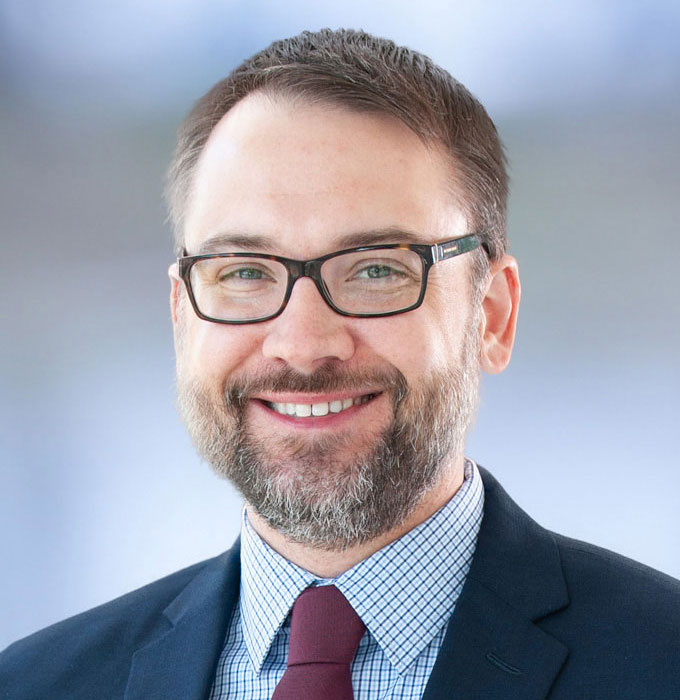
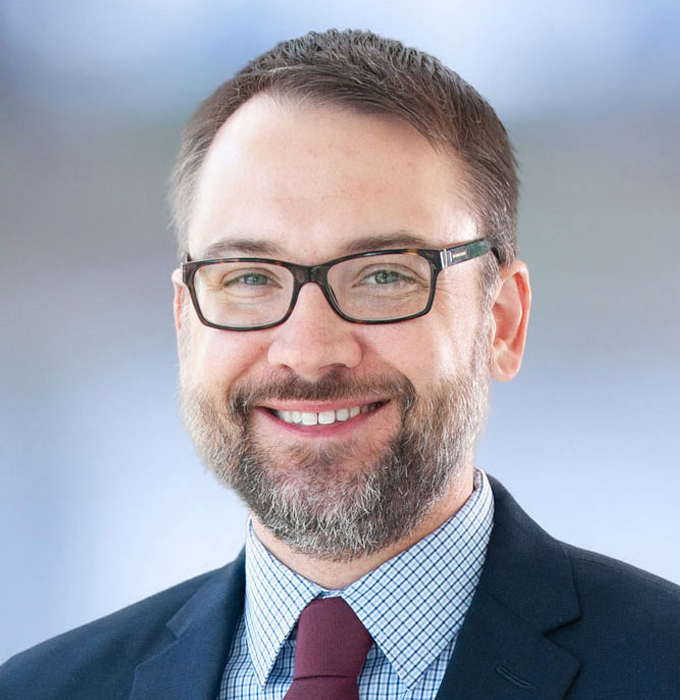
removed contact and revised footer

diff --git a/index.html b/index.html
@@ -16,30 +16,32 @@
 </head>
 
 <body>
-  <img class="img-fluid" src="assets/images/multi_strip.jpg" alt="bokeh background">
+  <!-- <img class="img-fluid" src="assets/images/multi_strip.jpg" alt="bokeh background"> -->
+  <img class="bluestrip" src="assets/images/multi_strip_thin.jpg" alt="blue pattern">
 
   <!-- Start Nav -->
   <nav class="navbar navbar-expand-lg navbar-dark mb-5" style="background-color: #1e2e3d">
     <div class="container">
-    <a class="navbar-brand" href="index.html"><span id="name">Steven Keen</span></a>
-    <button class="navbar-toggler" type="button" data-toggle="collapse" data-target="#navbarSupportedContent"
-      aria-controls="navbarSupportedContent" aria-expanded="false" aria-label="Toggle navigation">
-      <span class="navbar-toggler-icon"></span>
-    </button>
-    <div class="collapse navbar-collapse" id="navbarSupportedContent">
-      <ul class="nav navbar-nav">
-        <li class="nav-item">
-          <a class="nav-link active" href="#">About</a>
-        </li>
-        <li class="nav-item">
-          <a class="nav-link" href="portfolio.html">Portfolio</a>
-        </li>
-        <li class="nav-item">
-          <a class="nav-link" href="contact.html">Contact</a>
-        </li>
-      </ul>
+      <a class="navbar-brand" href="index.html"><span id="name">Steven Keen</span></a>
+      <button class="navbar-toggler" type="button" data-toggle="collapse" data-target="#navbarSupportedContent"
+        aria-controls="navbarSupportedContent" aria-expanded="false" aria-label="Toggle navigation">
+        <span class="navbar-toggler-icon"></span>
+      </button>
+      <div class="collapse navbar-collapse" id="navbarSupportedContent">
+        <ul class="nav navbar-nav">
+            <li class="nav-item pr-1">
+                <a class="nav-link" href="portfolio.html">Web Development</a>
+              </li>
+          <li class="nav-item pr-1">
+            <a class="nav-link active" href="#">About</a>
+          </li>
+
+          <!-- <li class="nav-item pr-1">
+            <a class="nav-link" href="https://keensteven.com/gallery1">Design</a>
+          </li> -->
+        </ul>
+      </div>
     </div>
-  </div>
   </nav>
   <!-- End Nav -->
 
@@ -52,43 +54,50 @@
         </div>
         <div class="row">
 
+
           <div class="col-md-3">
-            <img src="assets/images/Headshots/Headshot5.jpg" alt="Steven Photo" class="img-thumbnail mb-4">
+            <img src="assets/images/Headshots/Headshot5.jpg" alt="Steven Photo"
+              class="img-thumbnail mb-4 rounded-circle">
           </div>
           <div class="col-md-5">
             <p>
-              I'm Steven Keen – a graphic designer with over fifteen years of professional experience in the field. I hold a B.A. in Visual Arts and Graphic Design from the University of Maryland. I’ve had quite a few jobs in the design industry – from production artist to graphic designer – and I’ve learned a lot along the way. I’ve produced work for universities, trade associations, federal government agencies, international companies and small businesses. I thrive on new challenges and am eager to expand my experience while applying my creative skills. Please feel free to contact me with any comments or questions, I'm always interested in meeting new people. 
+              I'm Steven Keen – a graphic designer with over eighteen years of professional experience in the field. I
+              hold a B.A. in graphic design and have recently completed a program in full-stack web development. This
+              site showcases some of the projects I created for the coding boot camp. I've also linked my design
+              portfolio with examples of my design and production work.
+            </p>
+            <p>I thrive on new challenges and am always looking to expand my experience while applying my creative
+              skills. Please feel free to contact me with any comments or questions, I'm always interested in meeting
+              new people.
             </p>
           </div>
           <div class="col-md-1"></div>
 
-            <div class="col-md-3">
-                <div class="card border-grey mb-5" style="max-width: 18rem;">
-                    <div class="card-header">Connect</div>
-                    <div class="card-body text-dark">
-                      <p class="card-text"><a href="https://linkedin.com/in/keensteven">LinkedIn</a></p>
-                      <p class="card-text"><a href="https://keensteven.com">Design Portfolio</a></p>
-
-                    </div>
-                  </div>
-                  </div>
-
+          <div class="col-md-3">
+            <div class="card border-grey mb-5" style="max-width: 18rem;">
+              <div class="card-header">Connect</div>
+              <div class="card-body text-dark">
+                <p class="card-text"><a href="https://linkedin.com/in/keensteven">LinkedIn</a></p>
+                <p class="card-text"><a href="https://keensteven.com">Design Portfolio</a></p>
+                <p class="card-text"><a href="https://keensteven.com/contact">Contact</a></p>
+              </div>
             </div>
+          </div>
 
         </div>
-      </div>
 
+      </div>
     </div>
 
   </div>
 
-    <!--Flexbox Footer-->
-        <div class="d-flex justify-content-start fixed-bottom text-white pt-2 pb-2" style="background-color: #1e2e3d" id="smalltext">
-            <div class="container">
-                Web Development Bootcamp
-            </div>
-        </div>
-    <!--End Flexbox Footer-->
+  </div>
+
+  <!--Footer-->
+  <div class="fixed-bottom footer" style="background-color: #1e2e3d" id="footertext">
+      Web Development Bootcamp
+  </div>
+  <!--End Footer-->
 
   <!-- jQuery CDN -->
   <script src="https://ajax.googleapis.com/ajax/libs/jquery/1.11.3/jquery.min.js"></script>

diff --git a/portfolio.html b/portfolio.html
@@ -17,7 +17,7 @@
 
 <body>
 
-  <img class="img-fluid" src="assets/images/multi_strip.jpg" alt="blue pattern">
+  <img class="bluestrip" src="assets/images/multi_strip_thin.jpg" alt="blue pattern">
 
   <!-- Start Nav -->
   <nav class="navbar navbar-expand-lg navbar-dark mb-5" style="background-color: #1e2e3d">
@@ -29,15 +29,16 @@
       </button>
       <div class="collapse navbar-collapse" id="navbarSupportedContent">
         <ul class="nav navbar-nav">
-          <li class="nav-item">
+            <li class="nav-item pr-1">
+                <a class="nav-link active" href="portfolio.html">Web Development</a>
+              </li>
+          <li class="nav-item pr-1">
             <a class="nav-link" href="index.html">About</a>
           </li>
-          <li class="nav-item">
-            <a class="nav-link active" href="portfolio.html">Portfolio</a>
-          </li>
-          <li class="nav-item">
-            <a class="nav-link" href="contact.html">Contact</a>
-          </li>
+
+          <!-- <li class="nav-item pr-1">
+            <a class="nav-link" href="https://keensteven.com/gallery1">Design</a>
+          </li> -->
         </ul>
       </div>
     </div>
@@ -140,7 +141,8 @@
             class="card-img-top" alt="movie theater photo"></a>
         <div class="card-body">
           <h5 class="card-title">Mongo Scraper</h5>
-          <p class="card-text">This is a scraper for JavaScript news articles. This version of the site is responsive.</p>
+          <p class="card-text">This is a scraper for JavaScript news articles. This version of the site is responsive.
+          </p>
         </div>
       </div>
       <div class="card">
@@ -156,7 +158,8 @@
             class="card-img-top" alt="movie theater photo"></a>
         <div class="card-body">
           <h5 class="card-title">Scraper with Note Feature</h5>
-          <p class="card-text">This app scrapes EchoJS for news articles. This version of the site has a feature to add notes.</p>
+          <p class="card-text">This app scrapes EchoJS for news articles. This version of the site has a feature to add
+            notes.</p>
         </div>
       </div>
 
@@ -177,12 +180,18 @@
     on <a href="https://unsplash.com/">Unsplash</a>.
   </div>
   <!--Flexbox Footer-->
-  <div class="d-flex justify-content-start fixed-bottom text-white pt-2 pb-2" style="background-color: #1e2e3d"
+  <div class="fixed-bottom footer" style="background-color: #1e2e3d" id="footertext">
+    Web Development Bootcamp
+  </div>
+  <!--End Flexbox Footer-->
+
+  <!--Old Flexbox Footer-->
+  <!-- <div class="d-flex justify-content-start fixed-bottom text-white pt-2 pb-2" style="background-color: #1e2e3d"
     id="smalltext">
     <div class="container">
       Photos courtesy of <a href="https://unsplash.com/">Unsplash</a>.
     </div>
-  </div>
+  </div> -->
   <!--End Flexbox Footer-->
 
   <!-- Optional JavaScript -->

diff --git a/assets/css/style.css b/assets/css/style.css
@@ -43,22 +43,13 @@ a:visited {
     margin: 0 30px 0 0;
 }
 
-#footer {
-    background-color: #1e2e3d;
-    width: 100%;
-    height: 50px;
-    border-top: 4px solid #95B4DE;
-    bottom: 0;
-    position: fixed;
-}
-
 #footertext {
-    position: relative;
     color: #fff;
     font-size: 11px;
-    width: 960px;
-    margin: 0 auto;
-    left: -60px;
-    top: 18px;
+    padding: 6px 0 10px 20px;
 }
 
+.bluestrip {
+    width: 100%;
+    height: 30px;
+}
